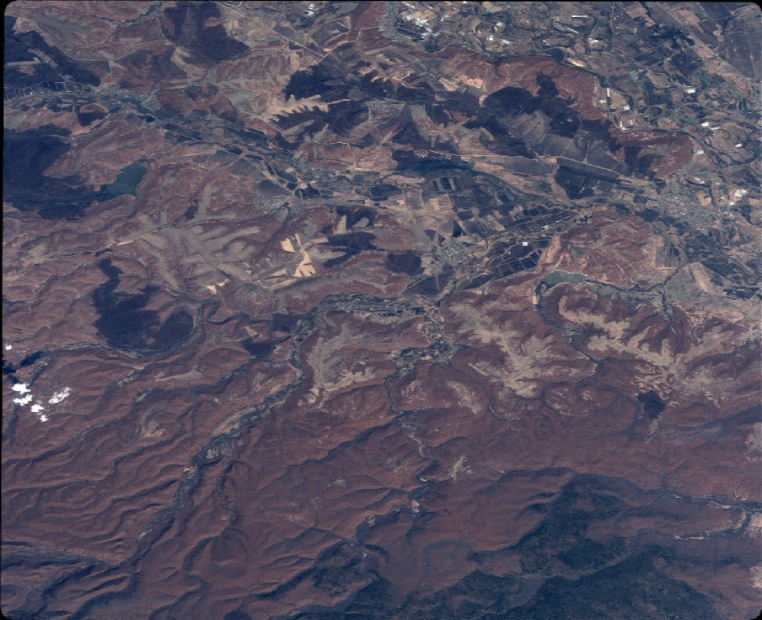
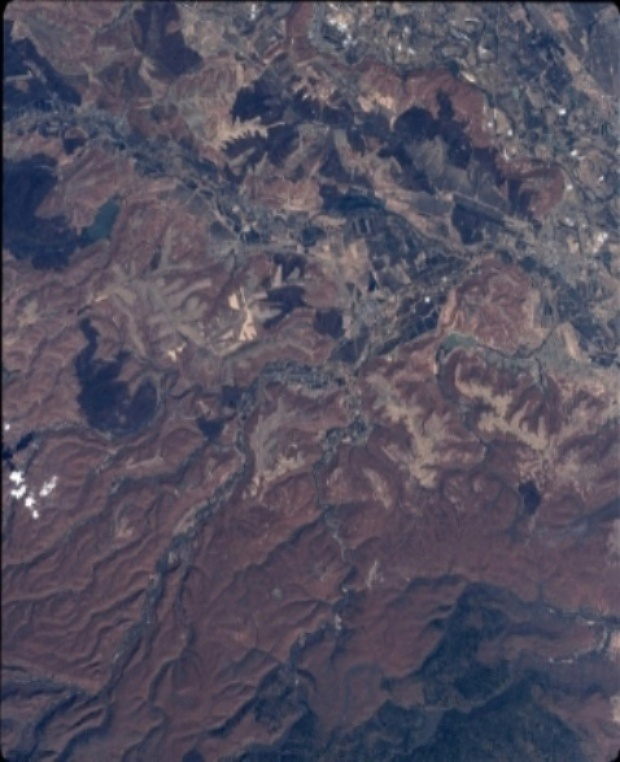
display interface added

diff --git a/p.py b/p.py
@@ -10,15 +10,6 @@ def threshold(coeffs,thresh):
         coeffs_thresh[i] = pywt.threshold(coeffs[i], thresh, mode='soft')
     return coeffs_thresh
 
-def universal_threshold(coeffs,sigma):
-    
-    coeffs_thresh = list(coeffs)
-    thresh = sigma*math.sqrt(2*math.log(len(coeffs[0])))
-    print(thresh)
-    coeffs_thresh[0] = coeffs[0]
-    for i in range(1, len(coeffs)):
-        coeffs_thresh[i] = pywt.threshold(coeffs[i], thresh, mode='soft')
-    return coeffs_thresh
 
 def mse(img1, img2):
    h, w , c = img1.shape
@@ -26,31 +17,6 @@ def mse(img1, img2):
    err = np.sum(diff**2)
    mse = err/(float(h*w*c))
    return mse
-
-def nlb_threshold(coeffs, sigma, h, p):
-    """
-    Non-local Bayes thresholding function for wavelet coefficients
-    coeffs: list of wavelet coefficients
-    sigma: estimated noise variance
-    h: non-local similarity parameter
-    p: patch size
-    """
-    coeffs_thresh = list(coeffs)
-    coeffs_thresh[0] = coeffs[0]
-    for i in range(1, len(coeffs)):
-        c = coeffs[i]
-        c_thresh = np.zeros_like(c)
-        for j in range(c.shape[0]):
-            for k in range(c.shape[1]):
-                patch = c[max(0, j-p):min(c.shape[0], j+p+1), max(0, k-p):min(c.shape[1], k+p+1)]
-                patch_dists = np.sum((patch - c[j,k])**2, axis=(2,3))
-                patch_weights = np.exp(-patch_dists / (h**2 * sigma))
-                patch_weights /= np.sum(patch_weights)
-                c_thresh[j,k] = np.sum(patch_weights * patch)
-        coeffs_thresh[i] = c_thresh
-    return coeffs_thresh
-
-
 
 def denoise (path,params):
     # Load the noisy image
@@ -84,31 +50,27 @@ def denoise (path,params):
     return img_denoised
     # Display the denoised image
 
-img = cv2.imread('russia_var0.5.jpg')
-# Load the noisy image
 
+def main(path,wavelet,method,levels=1,sigma=None):
+    # Load the noisy image
+    img = cv2.imread(path)
+    #img2 = cv2.imread("russia_org.jpg")
 
-    # Convert the image to YCbCr color space
-img_ycrcb = cv2.cvtColor(img, cv2.COLOR_BGR2YCrCb)
+        # Convert the image to YCbCr color space
+    img_ycrcb = cv2.cvtColor(img, cv2.COLOR_BGR2YCrCb)
 
-    # Split the channels
-y, cr, cb = cv2.split(img_ycrcb)
-y_denoised = _wavelet_threshold(image=y,wavelet='db8',method='VisuShrink',sigma=2,wavelet_levels=3)
-cr_denoised = _wavelet_threshold(image=cr,wavelet='db8',method='VisuShrink',sigma=2,wavelet_levels=3)
-cb_denoised = _wavelet_threshold(image=cb,wavelet='db8',method='VisuShrink',sigma=2,wavelet_levels=3)
-img_denoised_ycrcb = img
-img_denoised_ycrcb[:,:,0] = y_denoised
-img_denoised_ycrcb[:,:,1] = cr
-img_denoised_ycrcb[:,:,2] = cb
-img_denoised = cv2.cvtColor(img_denoised_ycrcb, cv2.COLOR_YCrCb2BGR)
+        # Split the channels
+    y, cr, cb = cv2.split(img_ycrcb)
+    y_denoised  = _wavelet_threshold(image=y, wavelet=wavelet,method=method,wavelet_levels=levels)
+    cr_denoised = _wavelet_threshold(image=cr,wavelet=wavelet,method=method,wavelet_levels=levels)
+    cb_denoised = _wavelet_threshold(image=cb,wavelet=wavelet,method=method,wavelet_levels=levels)
+    img_denoised_ycrcb = np.zeros_like(img)
+    img_denoised_ycrcb[:,:,0] = y_denoised
+    img_denoised_ycrcb[:,:,1] = cr_denoised
+    img_denoised_ycrcb[:,:,2] = cb_denoised
+    img_denoised = cv2.cvtColor(img_denoised_ycrcb, cv2.COLOR_YCrCb2BGR)
+    return img_denoised
+    #cv2.imshow('Denoised image', img_denoised.astype(np.uint8))
 
-
-# applying kernels to the input image to get the sharpened image
-img2 = cv2.imread("russia_org.jpg")
-
-print(mse(img2,img_denoised))
-print(mse(img2,img))
-cv2.imshow('Denoised image', img_denoised.astype(np.uint8))
-
-cv2.waitKey(0)
-cv2.destroyAllWindows()
+    #cv2.waitKey(0)
+    #cv2.destroyAllWindows()

diff --git a/display1.py b/display1.py
@@ -1,0 +1,54 @@
+import tkinter as tk
+from tkinter import filedialog
+from PIL import ImageTk, Image
+from p import main
+
+# Create the Tkinter window
+root = tk.Tk()
+
+file_path = filedialog.askopenfilename(title="Select Image", filetypes=[("All files", "*")])
+print(file_path)
+#---------------------------------code starts--------------------------------------
+import numpy as np
+import pywt
+import cv2
+
+
+
+#print(image[:,:,0].shape)
+# Smooth the image using wavelet transform
+smoothed_image = main(path=file_path,wavelet='db4',method='BayesShrink',levels=2,sigma=2)
+# Display the original and smoothed images
+#cv2.imshow('Original Image', image)
+cv2.imwrite('result.png', smoothed_image)
+
+
+#----------------------------------code ends ---------------------
+
+
+# Set the window size
+window_width = 2200
+window_height = 1000
+root.geometry(f"{window_width}x{window_height}")
+
+# Load the images using PIL
+
+image = Image.open("result.png")
+
+# Resize the images while maintaining their aspect ratio to fit the window
+image = image.resize((int(window_width/4), int(window_height)), Image.ANTIALIAS)
+
+
+# Convert the images to Tkinter-compatible format
+tk_image = ImageTk.PhotoImage(image)
+
+
+# Create a Tkinter label with the images and pack them side by side in the window
+label = tk.Label(root, image=tk_image)
+label.pack(side=tk.LEFT, fill=tk.BOTH, expand=tk.YES)
+label_name = tk.Label(label, text="Smoothed Image")
+label_name.pack(side=tk.TOP)
+
+
+# Run the Tkinter event loop
+root.mainloop()

diff --git a/noise.py b/noise.py
@@ -11,12 +11,14 @@ def add_speckle_noise(img, mean=0, var=0.1):
 # Load color image
 img = cv2.imread('russia_org.jpg')
 #img = cv2.resize(img,[480,480])
-# Add speckle noise with mean=0 and variance=0.1
-noisy_img = add_speckle_noise(img, mean=0, var=0.5)
-k = int(noisy_img.shape[0]/2)
-t = int(noisy_img.shape[1]/2)
-noisy_img = cv2.resize(noisy_img,[k*2,t*2])
+# Add speckle noise with mean=0 and variance=0.1\\
+k = int(img.shape[0]/2)
+t = int(img.shape[1]/2)
 img = cv2.resize(img,[k*2,t*2])
+noisy_img = add_speckle_noise(img, mean=0, var=0.4)
+
+#noisy_img = cv2.resize(noisy_img,[k*2,t*2])
+
 # Display original and noisy image side by side
 #cv2.imshow('Original', img)
 cv2.imwrite('russia_var0.5.jpg', noisy_img.astype(np.uint8))

diff --git a/test.py b/test.py
@@ -2,7 +2,7 @@ from logging import warn
 import numpy as np
 import pywt
 import scipy
-
+import scipy.stats
 def _bayes_thresh(details, var):
     """BayesShrink threshold for a zero-mean details coeff array."""
     # Equivalent to:  dvar = np.var(details) for 0-mean details array
